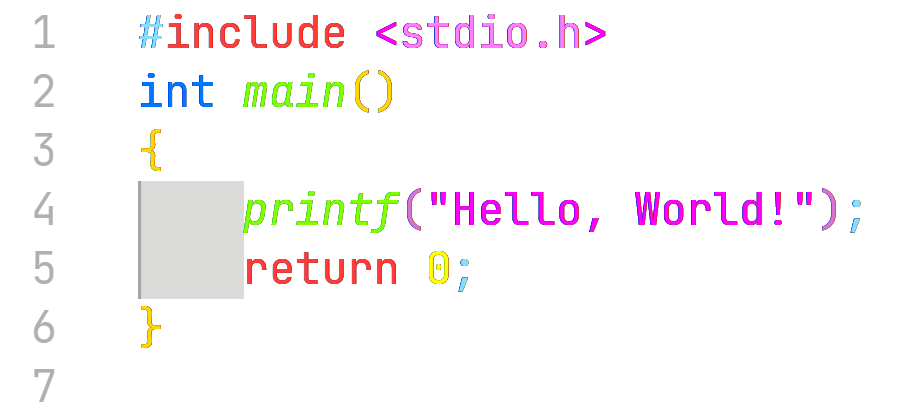
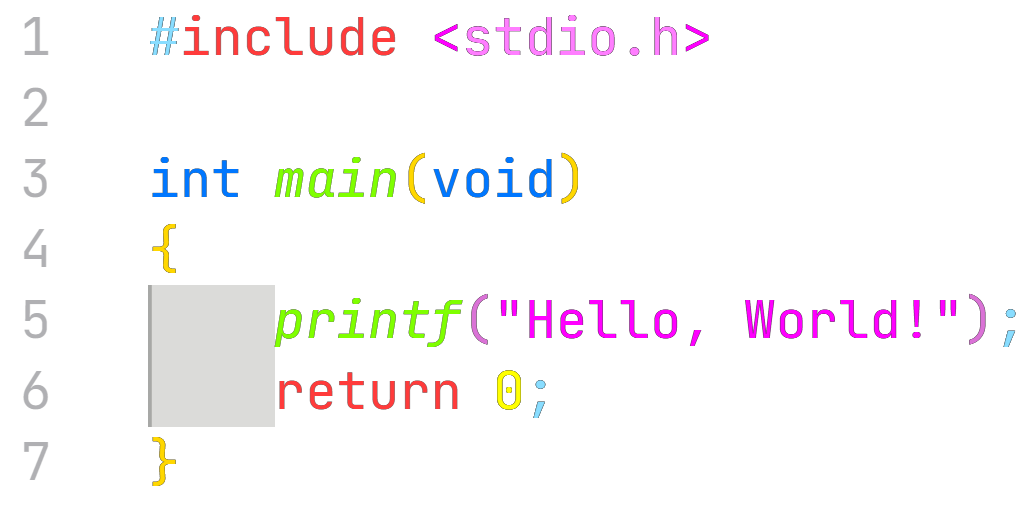
fix level n

diff --git a/myapp/templates/levelN.html b/myapp/templates/levelN.html
@@ -167,7 +167,7 @@
             color: #fff;
             text-shadow: #ff00c8;
             background: transparent;
-            border-style: dashed;
+            border-style: none;
             user-select: none;
             font-family: "JetBrains Mono Medium", "Consolas", "Menlo", "Monaco", monospace, serif;
         }
@@ -197,7 +197,7 @@
 <body ondragstart="return false" oncontextmenu="return false" ondragstart="return false" onselect="return false"
     onselect="document.selection.empty()" onpaste="return false" oncopy="return false" oncut="return false">
     <canvas style="position: absolute;z-index: -2;"></canvas>
-    <p style="color:white">SCNU 1024 Level N</p>
+    <p style="color:white;text-align: center;">SCNU 1024 Level N</p>
     <img id="my_img" style="position: absolute;z-index: -1;" src="{% static 'myapp/img/code_img.png'%}">
     <p id="my_text"></p>
     <textarea id="ed" oninput="edInChange()" spellcheck="false"></textarea>
@@ -221,20 +221,28 @@
         edInChange = function () {
             splatStack.push(1);
             if (my_img.style.display != "none") {
-                if (ined.value === `123`) {
+                if (ined.value === `#include <stdio.h>
+
+int main(void)
+{
+    printf("Hello, World!");
+    return 0;
+}`) {
+                    ined.value = "";
                     splatStack.push(50);
                     my_img.style.display = "none";
                     let str = '';
-                    let n = 1 + Math.round(Math.random() * 0);
+                    let n = 20 + Math.round(Math.random() * 30);
                     for (let i = 0; i < n; i++) {
                         str += "Hello SCNU."
                     }
                     my_text.innerHTML = str;
-                    ined.value = "";
                 }
             } else {
                 if (ined.value === my_text.innerHTML) {
-                    alert("WIN");
+                    /***************************关卡通过************************************/
+                    alert("WIN"); /*************关卡通过************************************/
+                    /***************************关卡通过************************************/
                 }
             }
         }
